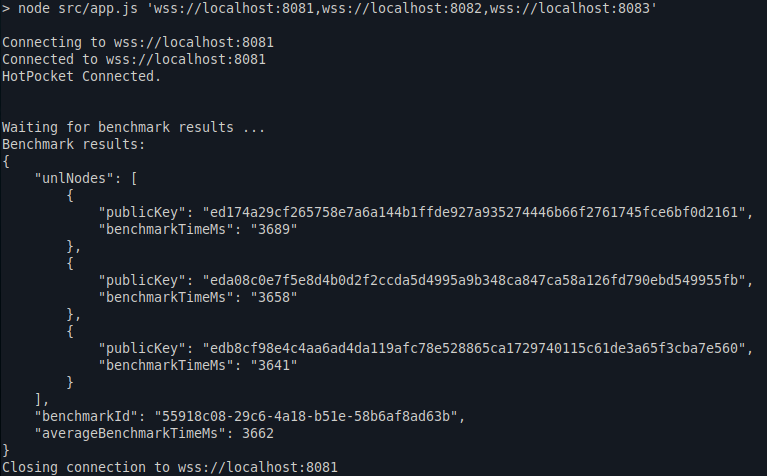
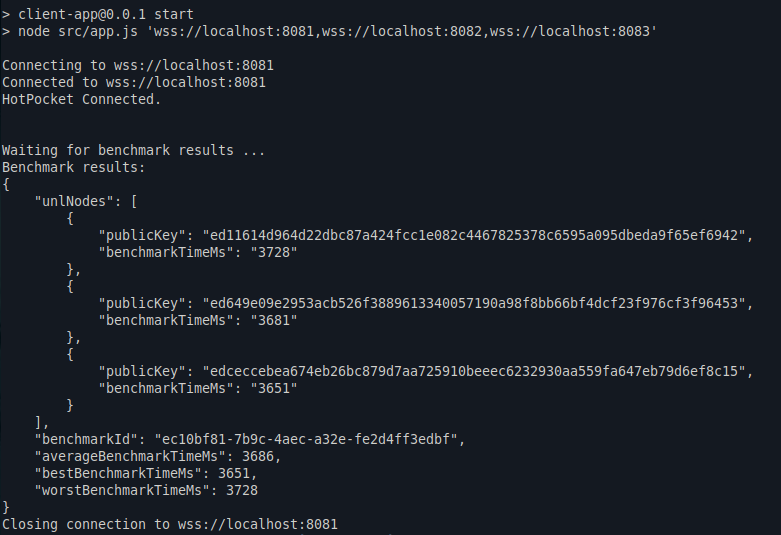
Added best and worst benchmark times to consolidated result

diff --git a/smart-contract/src/contract.js b/smart-contract/src/contract.js
@@ -75,19 +75,36 @@ function reportCompletedBenchmark(ctx) {
                 benchmarkResults[dirEntry.name] = contents.split(";");
             });
 
-            let totalTimeMs = 0;
+            let totalTimeMs = 0,
+                minTimeMs = null,
+                maxTimeMs = 0;
+
             const consolidatedResult = { unlNodes: [] };
+
             keys.sort().forEach((k) => {
                 consolidatedResult.unlNodes.push({
                     publicKey: benchmarkResults[k][2],
                     benchmarkTimeMs: benchmarkResults[k][4],
                 });
-                totalTimeMs += parseInt(benchmarkResults[k][4]);
+
+                const currentTimeMS = parseInt(benchmarkResults[k][4]);
+                totalTimeMs += currentTimeMS;
+                minTimeMs =
+                    minTimeMs === null
+                        ? currentTimeMS
+                        : currentTimeMS < minTimeMs
+                        ? currentTimeMS
+                        : minTimeMs;
+                maxTimeMs =
+                    currentTimeMS > maxTimeMs ? currentTimeMS : maxTimeMs;
             });
             consolidatedResult["benchmarkId"] = benchmarkResults[keys[0]][1];
             consolidatedResult["averageBenchmarkTimeMs"] = Math.floor(
                 totalTimeMs / keys.length
             );
+            consolidatedResult["bestBenchmarkTimeMs"] = minTimeMs;
+            consolidatedResult["worstBenchmarkTimeMs"] = maxTimeMs;
+
             const userId = benchmarkResults[keys[0]][3];
             const user = ctx.users.find(userId);
             const userOutput =
